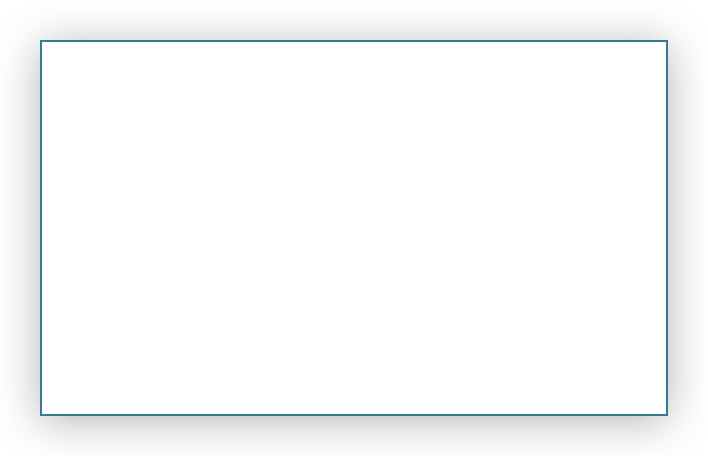
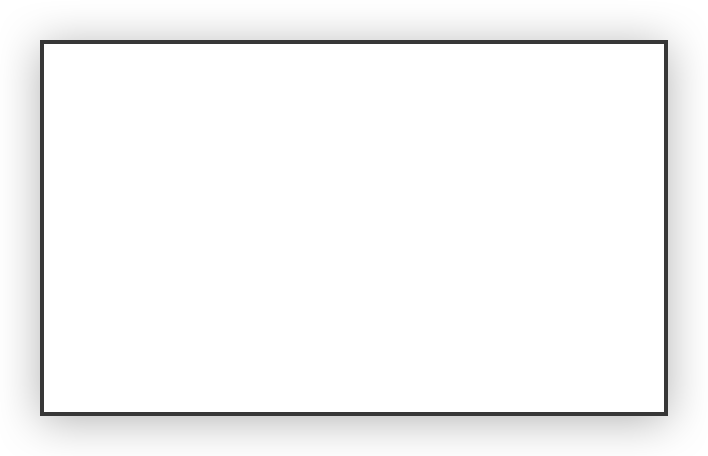
fix

Changed region(s): [[0.0311, 0.0614, 0.9633, 0.9211]]

diff --git a/veenoon/Engineer/Basic/EnginnerHomeViewController.m b/veenoon/Engineer/Basic/EnginnerHomeViewController.m
@@ -33,95 +33,84 @@
 
 - (void)viewDidLoad {
     [super viewDidLoad];
-    int leftRight = 250;
-    int width = SCREEN_WIDTH - leftRight*2;
-    int height = width * 2 / 3;
     
-    [super setCenterTitle:@"工程师登录"];
+    self.view.backgroundColor = BLACK_COLOR;
     
-    _inputPannel = [[UIView alloc] initWithFrame:CGRectMake(leftRight, SCREEN_HEIGHT/2-250, width, height)];
-    [self.view addSubview:_inputPannel];
-    _inputPannel.backgroundColor = RGB(0, 89, 118);
-    _inputPannel.userInteractionEnabled=YES;
+    UIView *_topBar = [[UIView alloc] initWithFrame:CGRectMake(0, 0, SCREEN_WIDTH, 64)];
+    _topBar.backgroundColor = DARK_GRAY_COLOR;
+    [self.view addSubview:_topBar];
     
-    UIImageView *bottomBar = [[UIImageView alloc] initWithFrame:CGRectMake(0, SCREEN_HEIGHT-50, SCREEN_WIDTH, 50)];
-    [self.view addSubview:bottomBar];
-    bottomBar.backgroundColor = [UIColor grayColor];
-    bottomBar.userInteractionEnabled = YES;
-    bottomBar.image = [UIImage imageNamed:@"botomo_icon.png"];
-    
-    UIButton *cancelBtn = [UIButton buttonWithType:UIButtonTypeCustom];
-    cancelBtn.frame = CGRectMake(0, 0,160, 50);
-    [bottomBar addSubview:cancelBtn];
-    [cancelBtn setTitle:@"返回" forState:UIControlStateNormal];
-    [cancelBtn setTitleColor:[UIColor whiteColor] forState:UIControlStateNormal];
-    [cancelBtn setTitleColor:RGB(255, 180, 0) forState:UIControlStateHighlighted];
-    cancelBtn.titleLabel.font = [UIFont boldSystemFontOfSize:18];
-    [cancelBtn addTarget:self
-                  action:@selector(cancelAction:)
-        forControlEvents:UIControlEventTouchUpInside];
-    
-    UIImage *roomImage = [UIImage imageNamed:@"engineer_login_icon.png"];
-    UIImageView *roomeImageView = [[UIImageView alloc] initWithImage:roomImage];
-    [_inputPannel addSubview:roomeImageView];
-    roomeImageView.frame = CGRectMake(width/2-69, 80, 138, 109);
-    roomeImageView.userInteractionEnabled=YES;
-    
-    UIView *_inputPannel2 = [[UIView alloc] initWithFrame:CGRectMake(leftRight, SCREEN_HEIGHT/2-250+height, width, 150)];
-    [self.view addSubview:_inputPannel2];
-    _inputPannel2.backgroundColor = [UIColor whiteColor];
-    _inputPannel2.userInteractionEnabled=YES;
-    
-    UIButton *login = [UIButton buttonWithColor:nil selColor:[UIColor blackColor]];
-    login.frame = CGRectMake(_inputPannel2.frame.size.width/2 - 124,_inputPannel2.frame.size.height/2-25,248, 31);
-    login.layer.cornerRadius = 5;
-    login.layer.borderWidth = 2;
-    login.layer.borderColor = [UIColor blackColor].CGColor;
-    login.clipsToBounds = YES;
-    [_inputPannel2 addSubview:login];
-    [login setTitle:@"登录" forState:UIControlStateNormal];
-    [login setTitleColor:[UIColor blackColor] forState:UIControlStateNormal];
-    [login setTitleColor:[UIColor whiteColor] forState:UIControlStateHighlighted];
-    login.titleLabel.font = [UIFont boldSystemFontOfSize:18];
-    
-    [login addTarget:self
-              action:@selector(loginAction:)
-    forControlEvents:UIControlEventTouchUpInside];
+    UILabel *centerTitleLabel = [[UILabel alloc] initWithFrame:CGRectMake(SCREEN_WIDTH/2-100, 25, 200, 30)];
+    centerTitleLabel.textColor = [UIColor whiteColor];
+    centerTitleLabel.backgroundColor = [UIColor clearColor];
+    centerTitleLabel.textAlignment = NSTextAlignmentCenter;
+    centerTitleLabel.text = @"工程师登录";
+    [_topBar addSubview:centerTitleLabel];
     
     
-    UIImage *userImage = [UIImage imageNamed:@"engineer_login_input_n.png"];
-    UIImageView *userImageView = [[UIImageView alloc] initWithImage:userImage];
-    [_inputPannel addSubview:userImageView];
-    userImageView.frame = CGRectMake(_inputPannel.frame.size.width/2 - 124, _inputPannel.frame.size.height-150, 248, 31);
-    userImageView.userInteractionEnabled=YES;
+    int inputHeight = 280;
+    UIView *_topBar2 = [[UIView alloc] initWithFrame:CGRectMake(0, inputHeight, SCREEN_WIDTH, 64)];
+    _topBar2.backgroundColor = DARK_GRAY_COLOR;
+    [self.view addSubview:_topBar2];
     
-    _userNameField = [[UITextField alloc] initWithFrame:CGRectMake(0, 0, 248, 31)];
+    UILabel *line = [[UILabel alloc] initWithFrame:CGRectMake(0, inputHeight+63, SCREEN_WIDTH, 1)];
+    line.backgroundColor = RGB(56, 56, 56);
+    [self.view addSubview:line];
+    
+    UIView *_topBar3 = [[UIView alloc] initWithFrame:CGRectMake(0, inputHeight+64, SCREEN_WIDTH, 64)];
+    _topBar3.backgroundColor = DARK_GRAY_COLOR;
+    [self.view addSubview:_topBar3];
+    
+    _userNameField = [[UITextField alloc] initWithFrame:CGRectMake(0, inputHeight + 10, SCREEN_WIDTH, 44)];
     _userNameField.delegate = self;
-    _userNameField.returnKeyType = UIReturnKeyDone;
-    _userNameField.placeholder = @" 输入账号";
-    [_userNameField setValue:[UIColor lightGrayColor] forKeyPath:@"_placeholderLabel.textColor"];
     _userNameField.backgroundColor = [UIColor clearColor];
+    _userNameField.returnKeyType = UIReturnKeyDone;
     _userNameField.textColor = [UIColor whiteColor];
-    _userNameField.borderStyle = UITextBorderStyleNone;
-    [userImageView addSubview:_userNameField];
+    _userNameField.borderStyle = UITextBorderStyleRoundedRect;
+    _userNameField.textAlignment = NSTextAlignmentCenter;
+    _userNameField.font = [UIFont systemFontOfSize:14];
+    _userNameField.placeholder=@"ID";
+    _userNameField.clearButtonMode = UITextFieldViewModeWhileEditing;
+    [self.view addSubview:_userNameField];
     
-    //密码输入框 pending....
-    UIImage *userImage2 = [UIImage imageNamed:@"engineer_login_input_n.png"];
-    UIImageView *userImageView2 = [[UIImageView alloc] initWithImage:userImage2];
-    [_inputPannel addSubview:userImageView2];
-    userImageView2.frame = CGRectMake(_inputPannel.frame.size.width/2 - 124, _inputPannel.frame.size.height-110, 248, 31);
-    userImageView2.userInteractionEnabled=YES;
     
-    _userPwdField = [[UITextField alloc] initWithFrame:CGRectMake(0, 0, 248, 31)];
+    _userPwdField = [[UITextField alloc] initWithFrame:CGRectMake(0, inputHeight + 10+64, SCREEN_WIDTH, 44)];
     _userPwdField.delegate = self;
-    _userPwdField.placeholder=@" 输入密码";
-    [_userPwdField setValue:[UIColor lightGrayColor] forKeyPath:@"_placeholderLabel.textColor"];
-    _userPwdField.returnKeyType = UIReturnKeyDone;
     _userPwdField.backgroundColor = [UIColor clearColor];
+    _userPwdField.returnKeyType = UIReturnKeyDone;
     _userPwdField.textColor = [UIColor whiteColor];
-    _userPwdField.borderStyle = UITextBorderStyleNone;
-    _userPwdField.secureTextEntry = YES;
-    [userImageView2 addSubview:_userPwdField];
+    _userPwdField.borderStyle = UITextBorderStyleRoundedRect;
+    _userPwdField.textAlignment = NSTextAlignmentCenter;
+    _userPwdField.placeholder=@"Password";
+    _userPwdField.font = [UIFont systemFontOfSize:14];
+    _userPwdField.secureTextEntry=YES;
+    _userPwdField.clearButtonMode = UITextFieldViewModeWhileEditing;
+    [self.view addSubview:_userPwdField];
+    
+    
+    UIButton *signup = [UIButton buttonWithColor:nil selColor:[UIColor whiteColor]];
+    signup.frame = CGRectMake(SCREEN_WIDTH/2 - 125, inputHeight+128+120, 250, 44);
+    signup.layer.cornerRadius = 8;
+    signup.layer.borderWidth = 1;
+    signup.layer.borderColor = [UIColor whiteColor].CGColor;
+    signup.clipsToBounds = YES;
+    [self.view addSubview:signup];
+    [signup setTitle:@"登录" forState:UIControlStateNormal];
+    [signup setTitleColor:[UIColor whiteColor] forState:UIControlStateNormal];
+    [signup setTitleColor:BLACK_COLOR forState:UIControlStateHighlighted];
+    signup.titleLabel.font = [UIFont boldSystemFontOfSize:18];
+    
+    [signup addTarget:self
+               action:@selector(loginAction:)
+     forControlEvents:UIControlEventTouchUpInside];
+    
+    UIButton *backBtn = [UIButton buttonWithType:UIButtonTypeCustom];
+    backBtn.frame = CGRectMake(30, 22, 40, 20);
+    [backBtn setImage:[UIImage imageNamed:@"left_back_bg.png"] forState:UIControlStateNormal];
+    [backBtn setImage:[UIImage imageNamed:@"left_back_bg.png"] forState:UIControlStateHighlighted];
+    [backBtn addTarget:self action:@selector(cancelAction:) forControlEvents:UIControlEventTouchUpInside];
+    [_topBar addSubview:backBtn];
+    
 }
 
 - (void)cancelAction:(id)sender {
@@ -130,38 +119,13 @@
 
 - (void)textFieldDidBeginEditing:(UITextField *)textField{
     
-    
-    if (textField == _userPwdField) {
-        _inputPannel.center = CGPointMake(SCREEN_WIDTH/2, SCREEN_HEIGHT/2-140);
-    }
-    if (textField == _userNameField) {
-        _inputPannel.center = CGPointMake(SCREEN_WIDTH/2, SCREEN_HEIGHT/2-120);
-    }
 }
 
-- (void)  textFieldDidEndEditing:(UITextField *)textField{
-    int leftRight = 250;
-    int width = SCREEN_WIDTH - leftRight*2;
-    int height = width * 2 / 3;
-    int center = SCREEN_HEIGHT/2-250 + height/2;
-    
-    if (textField == _userPwdField) {
-        _inputPannel.center = CGPointMake(SCREEN_WIDTH/2, center);
-    }
-    if (textField == _userNameField) {
-        _inputPannel.center = CGPointMake(SCREEN_WIDTH/2, center);
-    }
+- (void)textFieldDidEndEditing:(UITextField *)textField{
     
 }
 
 - (BOOL)textFieldShouldReturn:(UITextField *)textField{
-    
-    [textField resignFirstResponder];
-    
-    if(textField == _userNameField) {
-        [_userPwdField becomeFirstResponder];
-    }
-    
     return YES;
 }
 

diff --git a/veenoon/Engineer/Basic/EngineerSysSelectViewCtrl.m b/veenoon/Engineer/Basic/EngineerSysSelectViewCtrl.m
@@ -52,14 +52,13 @@
     [super viewDidLoad];
     // Do any additional setup after loading the view.
     
-    self.view.backgroundColor = RGB(1, 138, 182);
-    
+    self.view.backgroundColor = BLACK_COLOR;
     
     UIImageView *bottomBar = [[UIImageView alloc] initWithFrame:CGRectMake(0, SCREEN_HEIGHT-50, SCREEN_WIDTH, 50)];
     [self.view addSubview:bottomBar];
     bottomBar.backgroundColor = [UIColor grayColor];
     bottomBar.userInteractionEnabled = YES;
-    bottomBar.image = [UIImage imageNamed:@"botomo_icon.png"];
+    bottomBar.image = [UIImage imageNamed:@"botomo_icon_black.png"];
     
     UIButton *cancelBtn = [UIButton buttonWithType:UIButtonTypeCustom];
     cancelBtn.frame = CGRectMake(0, 0, 160, 50);
@@ -72,8 +71,7 @@
                   action:@selector(cancelAction:)
         forControlEvents:UIControlEventTouchUpInside];
     
-    UIButton *login = [UIButton buttonWithColor:[UIColor whiteColor]
-                                       selColor:LINE_COLOR];
+    UIButton *login = [UIButton buttonWithColor:nil selColor:[UIColor whiteColor]];
     login.frame = CGRectMake(SCREEN_WIDTH/2 - 180, SCREEN_HEIGHT/2 - 80, 360, 44);
     login.layer.cornerRadius = 8;
     login.layer.borderWidth = 1;
@@ -81,7 +79,8 @@
     login.clipsToBounds = YES;
     [self.view addSubview:login];
     [login setTitle:@"设置新的系统" forState:UIControlStateNormal];
-    [login setTitleColor:RGB(1, 138, 182) forState:UIControlStateNormal];
+    [login setTitleColor:[UIColor whiteColor] forState:UIControlStateNormal];
+    [login setTitleColor:BLACK_COLOR forState:UIControlStateHighlighted];
     login.titleLabel.font = [UIFont boldSystemFontOfSize:18];
     
     [login addTarget:self
@@ -97,7 +96,7 @@
     [self.view addSubview:signup];
     [signup setTitle:@"链接已有系统" forState:UIControlStateNormal];
     [signup setTitleColor:[UIColor whiteColor] forState:UIControlStateNormal];
-    [signup setTitleColor:RGB(1, 138, 182) forState:UIControlStateHighlighted];
+    [signup setTitleColor:BLACK_COLOR forState:UIControlStateHighlighted];
     signup.titleLabel.font = [UIFont boldSystemFontOfSize:18];
     
     [signup addTarget:self

diff --git a/veenoon/Engineer/Basic/EngineerMeetingRoomListViewCtrl.m b/veenoon/Engineer/Basic/EngineerMeetingRoomListViewCtrl.m
@@ -33,6 +33,8 @@
 - (void)viewDidLoad {
     [super viewDidLoad];
     
+    self.view.backgroundColor = BLACK_COLOR;
+    
     lableArray = [[NSMutableArray alloc] init];
     roomImageArray = [[NSMutableArray alloc] init];
     selectedRoomIndex = -1;
@@ -173,7 +175,7 @@
     [self.view addSubview:bottomBar];
     bottomBar.backgroundColor = [UIColor grayColor];
     bottomBar.userInteractionEnabled = YES;
-    bottomBar.image = [UIImage imageNamed:@"botomo_icon.png"];
+    bottomBar.image = [UIImage imageNamed:@"botomo_icon_black.png"];
     
     UIButton *backBtn = [UIButton buttonWithType:UIButtonTypeCustom];
     backBtn.frame = CGRectMake(60, SCREEN_HEIGHT -45, 60, 40);

diff --git a/veenoon/Engineer/Basic/EnginnerHomeViewController.h b/veenoon/Engineer/Basic/EnginnerHomeViewController.h
@@ -9,7 +9,7 @@
 #import "BaseViewController.h"
 
 
-@interface EnginnerHomeViewController : BaseViewController <UITextFieldDelegate> {
+@interface EnginnerHomeViewController : UIViewController <UITextFieldDelegate> {
     
 }
 

diff --git a/veenoon/Engineer/Basic/EngineerMeetingRoomListViewCtrl.h b/veenoon/Engineer/Basic/EngineerMeetingRoomListViewCtrl.h
@@ -9,7 +9,7 @@
 #import "BaseViewController.h"
 
 
-@interface EngineerMeetingRoomListViewCtrl : BaseViewController {
+@interface EngineerMeetingRoomListViewCtrl : UIViewController {
     
 }
 
